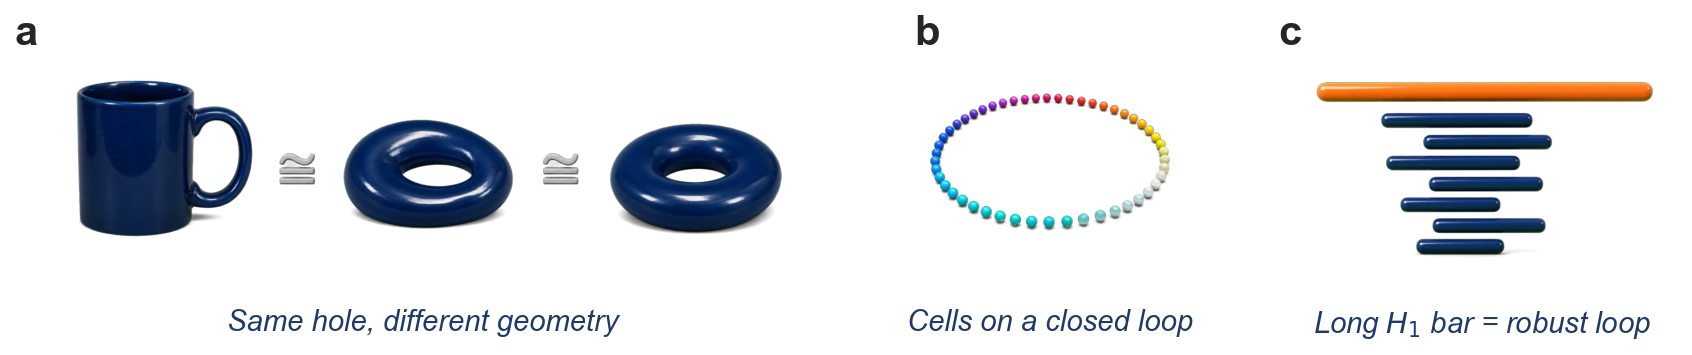
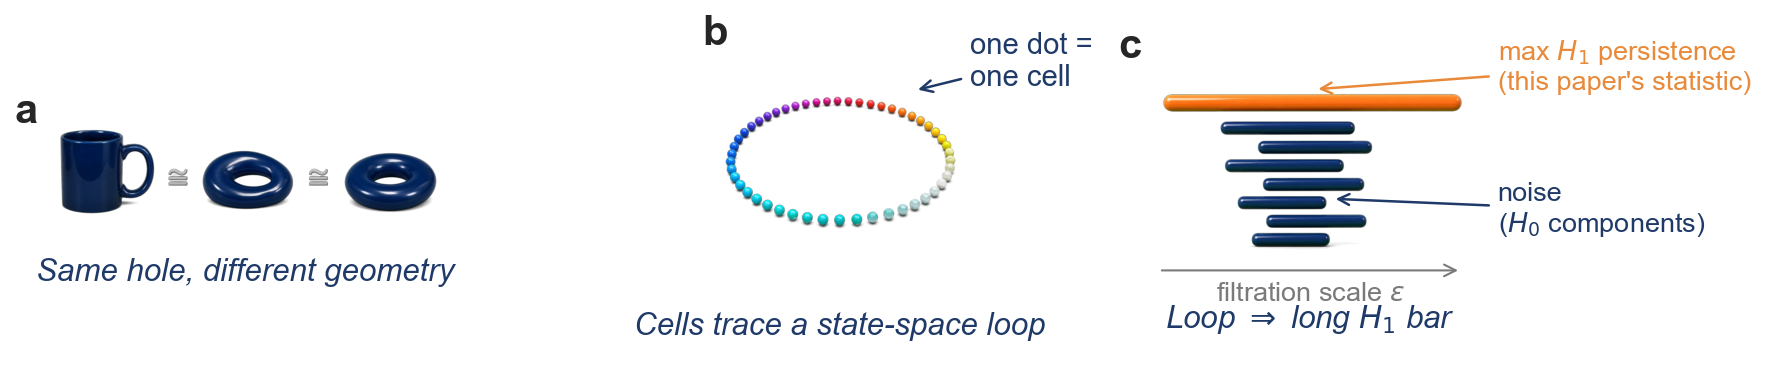
fig: Fig 1 — add inline labels/callouts to make panels b/c self-explanatory
Reader feedback: the AI 3D renders looked nice but didn't teach.
Without scaffolding, a non-specialist had no way to know "what is each
ball" or "what does bar length mean."

Added matplotlib overlay layer on top of the AI imshow renders:

Panel (a): unchanged (topology is self-evident from the deformation).

Panel (b): callout arrow + "one dot = one cell" pointing at a sphere.
Subtitle shortened to "Cells trace a state-space loop".

Panel (c): callout arrows on both bar populations:
- "max H_1 persistence (this paper's statistic)" -> orange bar
- "noise (H_0 components)" -> navy stack
- "filtration scale ε" arrow at the bottom for the implicit x-axis
- Subtitle: "Loop ⇒ long H_1 bar" (narrative bridge from b)

Layout: width_ratios [3.0, 1.8, 2.5] give panels b and c room for
right-side callouts; subtitle y-offset raised to clear the ε-arrow.

A reader can now follow the figure top-to-bottom without prior TDA
context: topology is hole-counting (a) -> cells form a loop (b) ->
persistence measures the loop's lifespan as a long bar (c).

Build clean: 29 pp / 5067 words; biorxiv 25 pp.

diff --git a/scripts/fig1_concept.py b/scripts/fig1_concept.py
@@ -40,8 +40,9 @@ PANEL_B_PNG = FIGURES_DIR / "fig1_panel_b_3d.png"
 PANEL_C_PNG = FIGURES_DIR / "fig1_panel_c_3d.png"
 
 
-def _imshow_alpha_panel(ax, png_path, subtitle):
-    """Inset an alpha PNG and add an italic subtitle below it."""
+def _imshow_alpha_panel(ax, png_path, subtitle, overlay_fn=None):
+    """Inset an alpha PNG with italic subtitle. `overlay_fn(ax, w, h)` runs
+    after imshow, in image-pixel coordinates, to add labels/arrows."""
     if not png_path.exists():
         ax.text(0.5, 0.5, f"Missing: {png_path}",
                 ha="center", va="center", color="red",
@@ -54,17 +55,61 @@ def _imshow_alpha_panel(ax, png_path, subtitle):
     img = mpimg.imread(str(png_path))
     ax.imshow(img, interpolation="bilinear", aspect="equal")
     h, w = img.shape[0], img.shape[1]
+    if overlay_fn is not None:
+        overlay_fn(ax, w, h)
     ax.text(
-        w / 2, h * 1.06, subtitle,
-        fontsize=7, color=NAVY, style="italic",
+        w / 2, h * 1.10, subtitle,
+        fontsize=7.5, color=NAVY, style="italic",
         ha="center", va="top",
     )
-    ax.set_xlim(0, w)
-    ax.set_ylim(h * 1.18, -h * 0.04)
+    # extra right-side room for overlay callouts (mostly used by b and c)
+    ax.set_xlim(-w * 0.02, w * 1.55)
+    ax.set_ylim(h * 1.28, -h * 0.06)
     ax.set_xticks([])
     ax.set_yticks([])
     for spine in ax.spines.values():
         spine.set_visible(False)
+
+
+def _overlay_panel_b(ax, w, h):
+    """Add explanatory callouts on top of the cells-on-loop image."""
+    # Callout to one sphere on the loop, labeling it as one cell.
+    ax.annotate(
+        "one dot =\none cell",
+        xy=(w * 0.78, h * 0.22), xytext=(w * 1.02, h * 0.10),
+        fontsize=7, color=NAVY, ha="left", va="center",
+        arrowprops=dict(arrowstyle="->", lw=0.6, color=NAVY,
+                        shrinkA=0, shrinkB=2),
+    )
+
+
+def _overlay_panel_c(ax, w, h):
+    """Add explanatory callouts on top of the persistence-barcode image."""
+    # Long orange bar — call it out as max H_1
+    ax.annotate(
+        "max $H_1$ persistence\n(this paper's statistic)",
+        xy=(w * 0.50, h * 0.18), xytext=(w * 1.04, h * 0.08),
+        fontsize=6.5, color=ORANGE, ha="left", va="center",
+        arrowprops=dict(arrowstyle="->", lw=0.6, color=ORANGE,
+                        shrinkA=0, shrinkB=2),
+    )
+    # Short navy stack — call out as noise
+    ax.annotate(
+        "noise\n($H_0$ components)",
+        xy=(w * 0.55, h * 0.65), xytext=(w * 1.04, h * 0.70),
+        fontsize=6.5, color=NAVY, ha="left", va="center",
+        arrowprops=dict(arrowstyle="->", lw=0.6, color=NAVY,
+                        shrinkA=0, shrinkB=2),
+    )
+    # Filtration-scale axis hint below the bars
+    ax.annotate(
+        "", xy=(w * 0.95, h * 0.96), xytext=(w * 0.05, h * 0.96),
+        arrowprops=dict(arrowstyle="->", lw=0.5, color=GREY),
+    )
+    ax.text(
+        w * 0.5, h * 1.01, r"filtration scale $\varepsilon$",
+        fontsize=6.5, color=GREY, ha="center", va="top",
+    )
 
 logging.basicConfig(level=logging.INFO, format="%(asctime)s %(levelname)s: %(message)s")
 logger = logging.getLogger(__name__)
@@ -82,22 +127,23 @@ def panel_mug_to_donut(ax):
 
 
 def panel_loop_cells(ax, rng):
-    """(b) AI 3D render: spheres on a noisy loop in state-space.
-
-    `rng` retained for backward compatibility — not used now that the
-    panel is an AI image, but kept so callers don't break.
-    """
+    """(b) AI 3D render of cells on a loop + explanatory overlay labels."""
     del rng
-    _imshow_alpha_panel(ax, PANEL_B_PNG, "Cells on a closed loop")
+    _imshow_alpha_panel(
+        ax, PANEL_B_PNG,
+        "Cells trace a state-space loop",
+        overlay_fn=_overlay_panel_b,
+    )
 
 
 def panel_barcode(ax, rng):
-    """(c) AI 3D render: persistence barcode (orange H_1 + navy H_0 stack).
-
-    `rng` retained for backward compatibility.
-    """
+    """(c) AI 3D barcode + explanatory overlay labels (max H_1, noise, ε)."""
     del rng
-    _imshow_alpha_panel(ax, PANEL_C_PNG, "Long $H_1$ bar = robust loop")
+    _imshow_alpha_panel(
+        ax, PANEL_C_PNG,
+        "Loop $\\Rightarrow$ long $H_1$ bar",
+        overlay_fn=_overlay_panel_c,
+    )
 
 
 def main():
@@ -110,8 +156,8 @@ def main():
     fig = plt.figure(figsize=(180 / 25.4, 75 / 25.4))
     gs = gridspec.GridSpec(
         1, 3, figure=fig,
-        width_ratios=[3.0, 1.0, 1.5],
-        wspace=0.22,
+        width_ratios=[3.0, 1.8, 2.5],
+        wspace=0.05,
     )
 
     ax_a = fig.add_subplot(gs[0, 0])